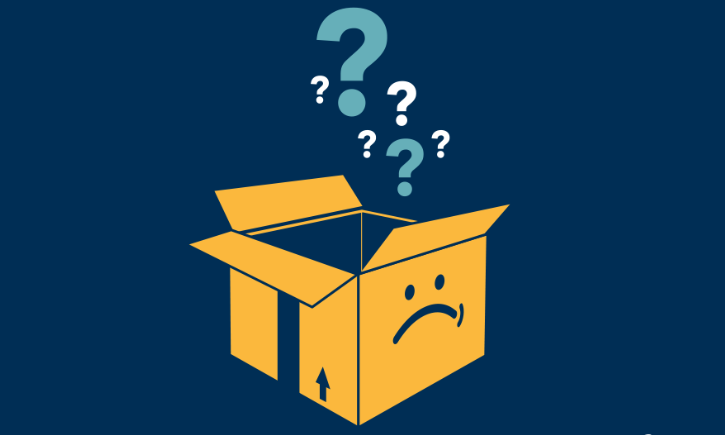
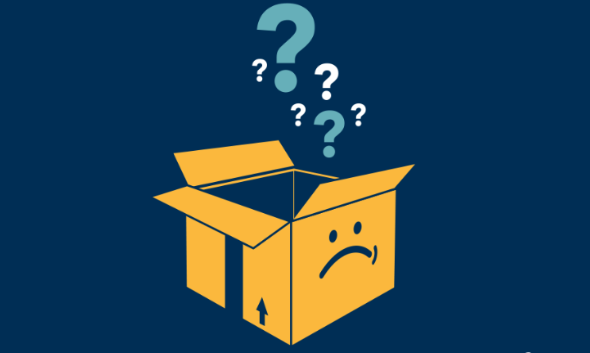
Update pictures

diff --git a/docs/2020/2020.01.20q.md b/docs/2020/2020.01.20q.md
@@ -1,5 +1,5 @@
 <span style="display:block;text-align:center">
-![The most aggressive price](./../assets/img/2020.01.20.jpg)
+![The most aggressive price](./../assets/img/2020.01.20.png)
 </span>
 <span style="display:block;text-align:center"><font color="grey">Source: </font>adopted from <a href="https://s3.amazonaws.com/storage-ubertor-com/indranilghosh.myubertor.com/content/image/508.jpg">here</a></span>
 
